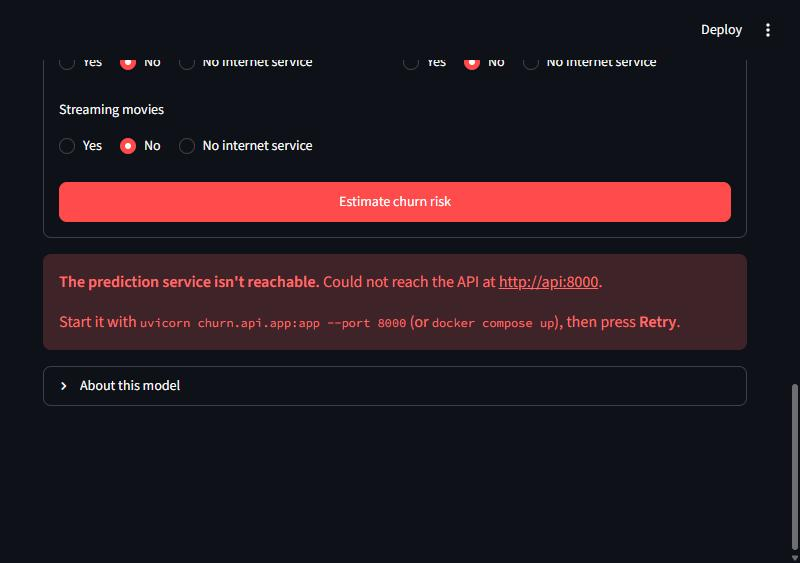
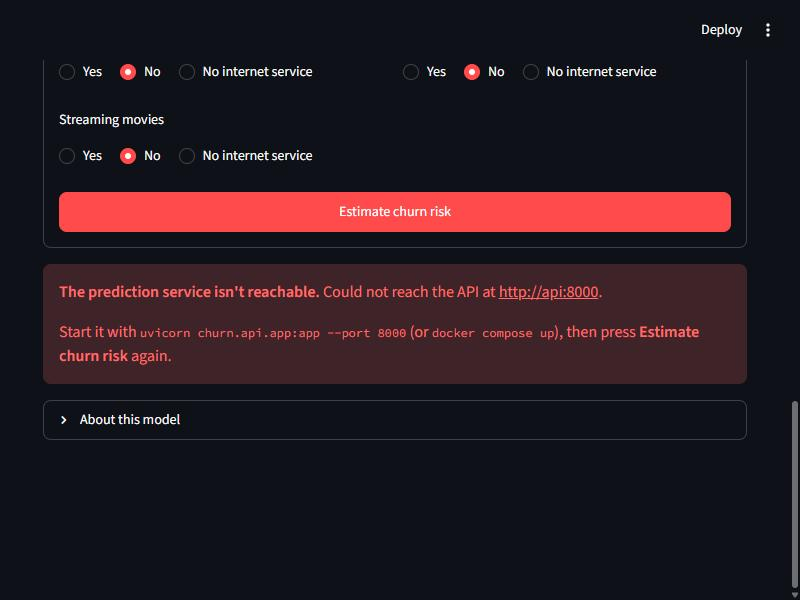
docs: recapture frontend screenshots at full resolution
The previous "API unavailable" image predated the fix to its message and
still told users to press a Retry button that isn't there. All three
images are retaken at native 800x600 and shown one per row so the text
is readable on GitHub.

diff --git a/README.md b/README.md
@@ -146,9 +146,17 @@ returns the same probability. Request validation is generated from the schema, a
 
 ## Frontend
 
-| Form (sample profile preloaded) | Result | API unavailable |
-|---|---|---|
-| ![Form](docs/images/frontend_form.jpg) | ![Result](docs/images/frontend_result.jpg) | ![API down](docs/images/frontend_api_down.jpg) |
+**1. Form, with a made-up sample profile preloaded**
+
+<img src="docs/images/frontend_form.jpg" alt="Churn risk estimator form with sample profile buttons and account fields" width="720">
+
+**2. Result returned by the API**: probability, risk level, threshold, model version, and the estimate disclaimer
+
+<img src="docs/images/frontend_result.jpg" alt="Result card showing 85% churn probability, High risk, and disclaimer" width="720">
+
+**3. API unavailable**: a clear message and how to recover
+
+<img src="docs/images/frontend_api_down.jpg" alt="Error message: the prediction service isn't reachable, with instructions to start it" width="720">
 
 The form is built from the API's input schema, and every prediction goes through `POST /predict`.
 There's no model code in the UI. It has made-up sample profiles, field-level API errors, and non-blocking
